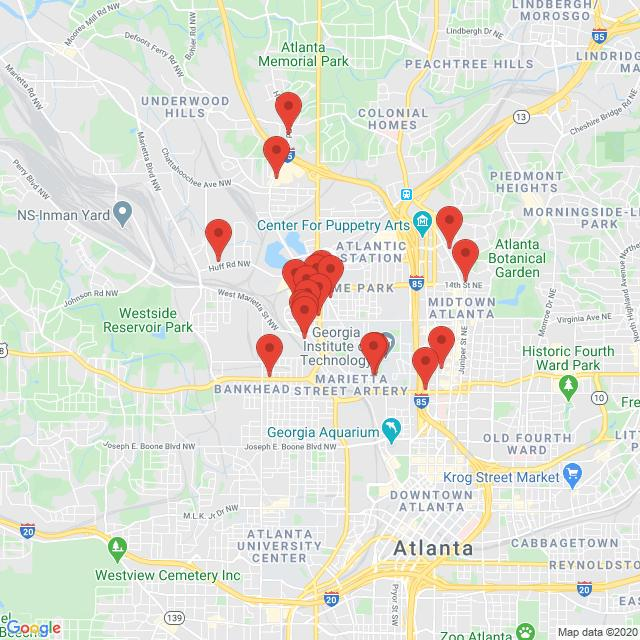
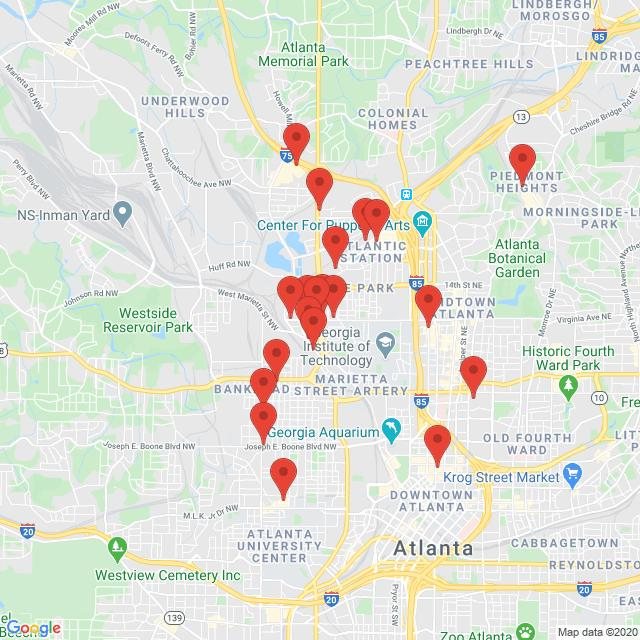
Updates

diff --git a/src/main/java/org/gatech/cogsci/controller/TestRetrievedPlacesController.java b/src/main/java/org/gatech/cogsci/controller/TestRetrievedPlacesController.java
@@ -1,0 +1,160 @@
+package org.gatech.cogsci.controller;
+
+import com.google.maps.*;
+import com.google.maps.StaticMapsRequest.Markers;
+import com.google.maps.model.*;
+import org.springframework.web.bind.annotation.GetMapping;
+import org.springframework.web.bind.annotation.RestController;
+import java.io.ByteArrayInputStream;
+import java.io.ByteArrayOutputStream;
+import java.awt.image.BufferedImage;
+import java.io.File;
+import javax.imageio.ImageIO;
+
+
+import java.util.*;
+
+import static com.google.maps.StaticMapsApi.newRequest;
+
+@RestController
+public class TestRetrievedPlacesController {
+
+    @GetMapping("testRetrievedPlaces")
+    public Map testRetrievedPlaces() {
+
+        // Create context
+        GeoApiContext context = new GeoApiContext.Builder()
+                .apiKey("AIzaSyBIzAPCTlqrpzFDbFqRQFmGfg81I_DvmsA")
+                .build();
+
+        // Get nearby locations
+        LatLng origin = new LatLng(33.781556,-84.407480); // Intersection at NE corner of gatech
+        String query = "all"; // Search query
+        PlaceType type = PlaceType.STORE;
+        int radius = 10; // Search radius in meters
+        //LatLng[] destinations = getLocationsByQuery(context, origin, query, radius);
+        LatLng[] destinations = getLocationsByType(context, origin, type, radius);
+
+        // Get times from origin to locations
+        TravelMode mode = TravelMode.DRIVING;
+        getTimes(context, origin, destinations, mode);
+
+        // Turn coordinates into markers
+        Markers markers = locationsToMarkers(destinations);
+
+        // Create map
+        Size size = new Size(1000,1000);
+        makeMap(context,size,markers,origin);
+
+        // Dummy map to show on webpage
+        Map<String, String> map = new HashMap<>();
+        map.put("Message","check root directory for image of generated map");
+
+        return map;
+    }
+
+    private LatLng[] getLocationsByQuery(GeoApiContext context, LatLng location, String query, int radius){
+
+        // Create the request
+        TextSearchRequest request = new TextSearchRequest(context)
+                .location(location)
+                .query(query)
+                .radius(radius);
+
+        // Get list of coordinates
+        List<LatLng> locations = new ArrayList<LatLng>();
+        try{
+            PlacesSearchResponse response = request.await();
+            while (true) {
+                for (PlacesSearchResult r : response.results) {
+                    // Print locations of all places with "point_of_interest" types
+                    List<String> list = Arrays.asList(r.types);
+                    locations.add(r.geometry.location);
+                }
+                if (response.nextPageToken != null){
+                    response = new TextSearchRequest(context).pageToken(response.nextPageToken).await();
+                    continue;
+                }
+                break;
+            }
+        } catch(Exception e) {
+            System.out.println(e);
+        }
+
+        return locations.toArray(LatLng[]::new);
+    }
+
+    private LatLng[] getLocationsByType(GeoApiContext context, LatLng location, PlaceType type, int radius){
+
+        // Create the request
+        TextSearchRequest request = new TextSearchRequest(context)
+                .location(location)
+                .type(type)
+                .radius(radius);
+
+        // Get list of coordinates
+        List<LatLng> locations = new ArrayList<LatLng>();
+        try{
+            PlacesSearchResponse response = request.await();
+            for (PlacesSearchResult r : response.results)
+            {
+                // Print locations of all places with "point_of_interest" types
+                List<String> list = Arrays.asList(r.types);
+                locations.add(r.geometry.location);
+            }
+        } catch(Exception e) {
+            System.out.println(e);
+        }
+
+        return locations.toArray(LatLng[]::new);
+    }
+
+    private void getTimes(GeoApiContext context, LatLng origin, LatLng[] destinations, TravelMode mode){
+        DistanceMatrixApiRequest request = new DistanceMatrixApiRequest(context)
+                .origins(origin)
+                .destinations(destinations)
+                .mode(mode);
+        try {
+            DistanceMatrix response = request.await();
+            for (DistanceMatrixRow row : response.rows) {
+                for (DistanceMatrixElement element : row.elements){
+                    System.out.println(element.duration.humanReadable);
+                }
+            }
+        } catch (Exception e) {
+            System.out.println(e);
+        }
+    }
+
+    private Markers locationsToMarkers(LatLng[] locations){
+        Markers markers = new Markers();
+        for(LatLng location : locations){
+            markers.addLocation(location);
+        }
+
+        return markers;
+    }
+
+
+    private void makeMap(GeoApiContext context, Size size, Markers markers, LatLng center) {
+        StaticMapsRequest request = newRequest(context,size)
+                .markers(markers)
+                .center(center);
+        ImageResult imageResult = new ImageResult(null,null);
+        try {
+            imageResult = request.await();
+        } catch (Exception e) {
+            System.out.println(e);
+        }
+
+        try {
+            ByteArrayInputStream bis = new ByteArrayInputStream(imageResult.imageData);
+            BufferedImage image = ImageIO.read(bis);
+            ImageIO.write(image, "jpg", new File("map.jpg"));
+            System.out.println("image created");
+        } catch(Exception e){
+            System.out.println(e);
+        }
+    }
+
+}
